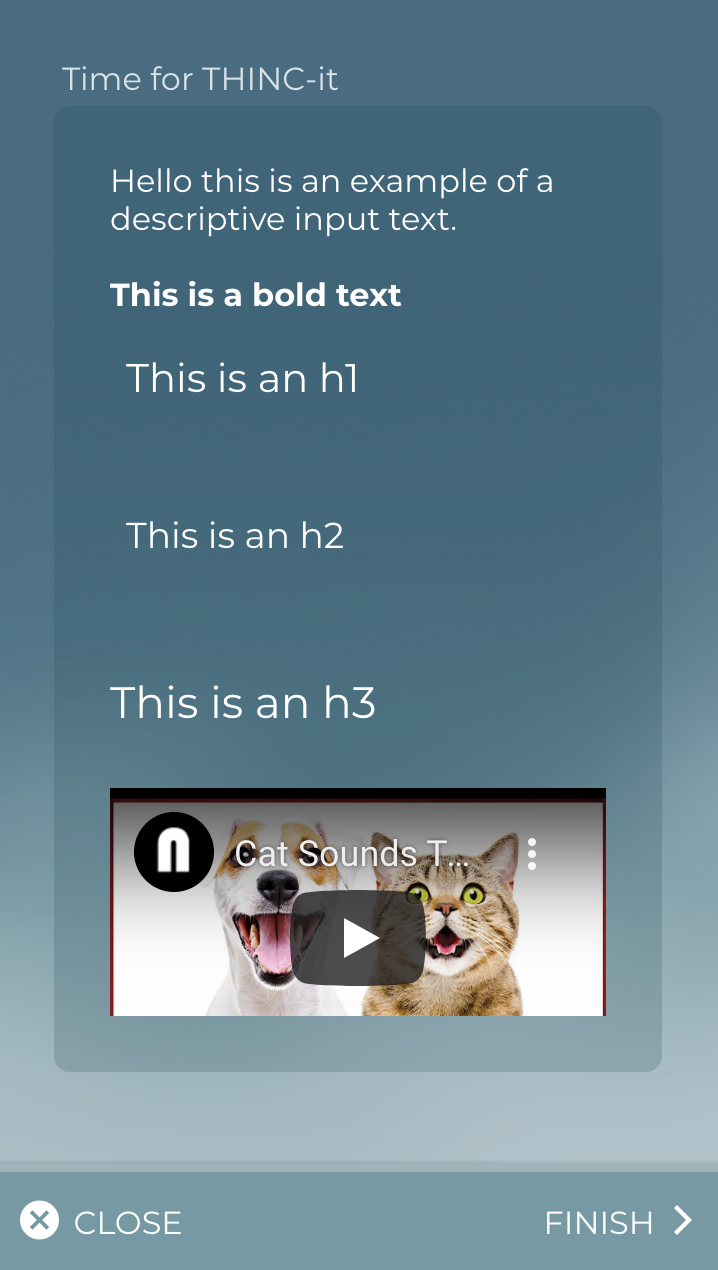
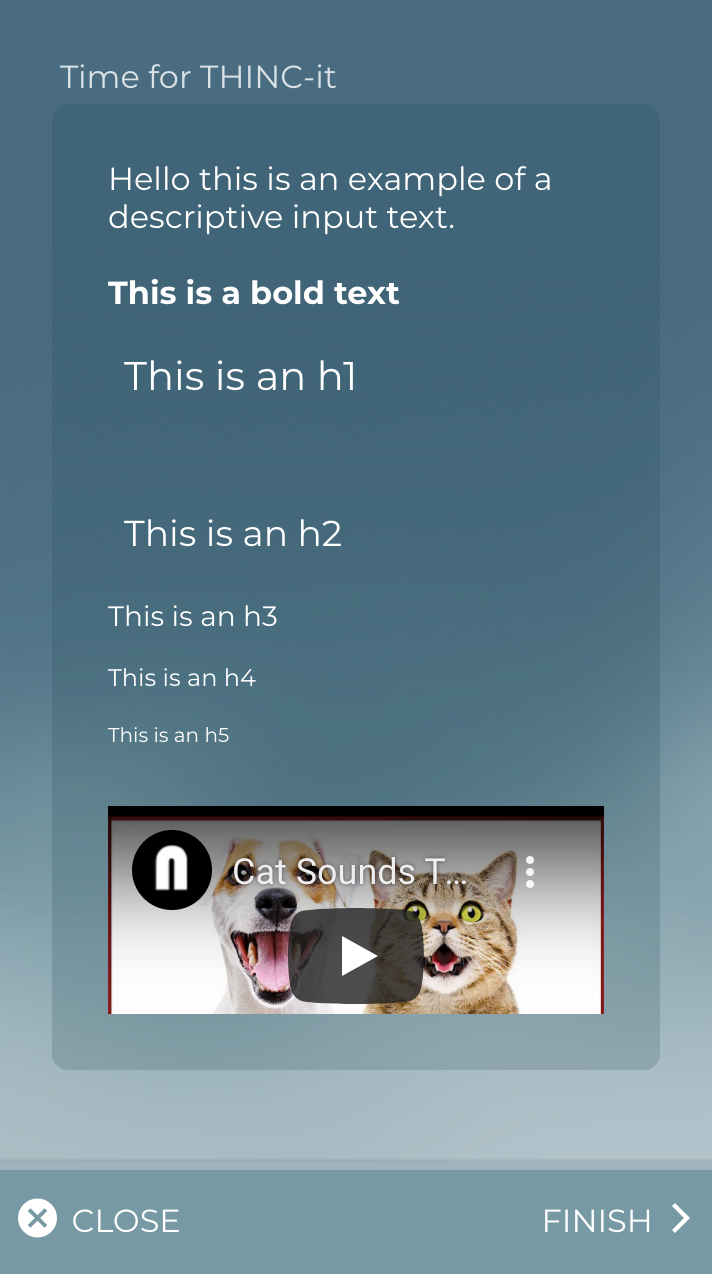
fix: update readme and screenshots for descriptive input

diff --git a/README.md b/README.md
@@ -261,7 +261,7 @@ Hello this is an example of a descriptive input text.
 <br>
 <h2>This is an h2</h2>
 <br>
-<h3>This is an h3</h3>
+<h3>This is an h3</h3> <h4>This is an h4</h4> <h5>This is an h5</h5>
 <br>
 <iframe width="560" height="315" src="https://www.youtube.com/embed/4rxh60G2RRU" title="YouTube video player" allowfullscreen></iframe>
 <br><br>
